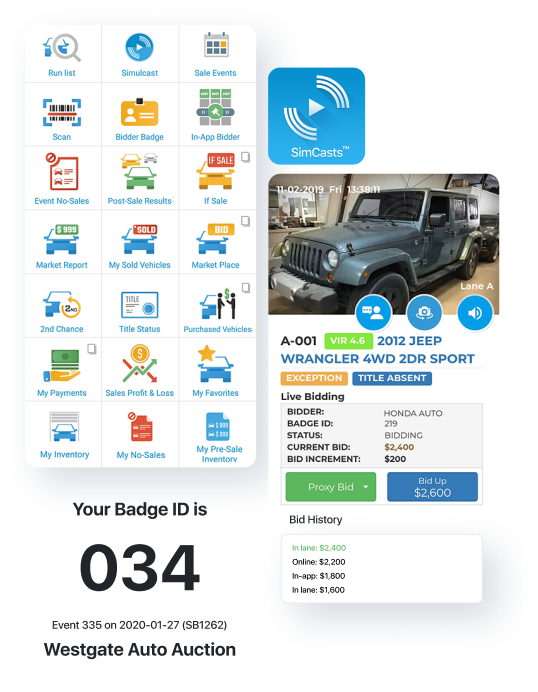
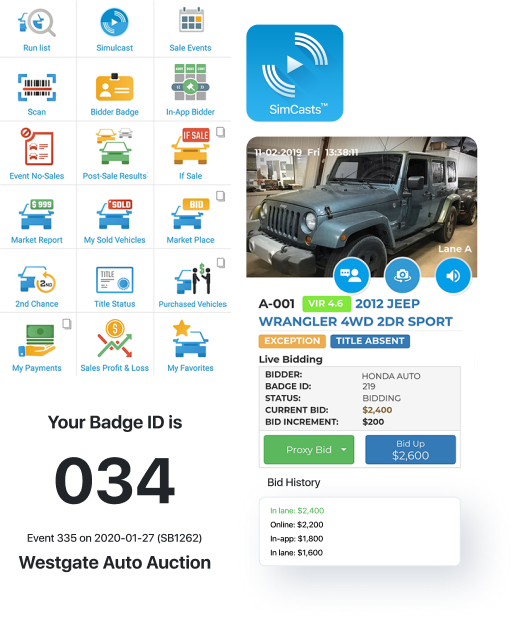
up

diff --git a/index.html b/index.html
@@ -48,12 +48,18 @@
         <div class="row">
           <div class="case-block">
             <div class="case-block-img">
-              <img class="img-case img-wxchat" src="images/chat_case.png" alt="">
+              <img class="img-case img-wxchat img-case-xl" src="images/chat_case.png" alt="">
+              <img class="img-case img-wxchat img-case-lg" src="images/chat_case_1600.png" alt="">
             </div>
             <div class="case-block-text">
-              <h3 class="xloo-title-dark-text">Business Chat Platform <br>That Unites Teams</h3>
-              <p class="xloo-secondary-text-dark case-text">WEBXLOO offers a complete results-oriented web strategy, catering to every aspect of your online business. They deliver integrated solutions that help companies grow, manage change and improve profitability. Webxloo's services, teams, efforts, dedication and customer-oriented approach make them a favorite choice among the clients. They are dedicated 24/7, all year round, to provide the best service available.
-              </p>
+              <p class="case-name">WXChat</p>
+              <h3 class="xloo-title-dark-text mb-0">Chat Platform for Omnichannel <br>Teams Collaboration</h3>
+              <p class="xloo-secondary-text-dark case-text">The powerful communication platform with high-end features to improve the internal workflows of any business.</p>
+              <div class="container-case-platforms">
+                <p class="case-platform-item"><img src="images/apple.svg" alt=""> iOS</p>
+                <p class="case-platform-item"><img src="images/android.svg" alt=""> Android</p>
+                <p class="case-platform-item"><img src="images/windows.svg" alt=""> Windows</p>
+              </div>
               <a href="#" class="btn btn-xloo-block-chevron btn-xloo-block-dark-text">Read Case Study <img src="images/arrow.svg" class="btn-chevron" alt="read"></a>
             </div>
           </div>
@@ -62,22 +68,26 @@
     </div>
   </div>
 
-
   <!-- 2 block-->
   <div class="section">
     <div class="xloo-block-secondary case-container container-dark">
       <div class="container">
         <div class="row">
           <div class="case-block">
-
             <div class="case-block-text">
-              <h3 class="xloo-title-block-secondary">Online Bidding Platform <br>With Live Streaming</h3>
-              <p class="xloo-secondary-text xloo-secondary-text-light case-text">Auction Streaming is the First and Only AMS provider with a fully functional and independent online Cloud Auction Management System. Auction owners from all over the USA get profits with highly innovative auction management software like Simcasts™ and LVS™.
-              </p>
+              <p class="case-name xloo-text-primary">SimCasts</p>
+              <h3 class="xloo-title-dark-text xloo-secondary-text-light mb-0">Online Bidding Platform With Live Streaming</h3>
+              <p class="xloo-secondary-text-light xloo-secondary-text case-text">Video/audio broadcasting software for auto auctions with a wide range of possibilities for selling vehicles online.</p>
+              <div class="container-case-platforms">
+                <p class="case-platform-item"><img src="images/apple.svg" alt=""> iOS</p>
+                <p class="case-platform-item"><img src="images/android.svg" alt=""> Android</p>
+                <p class="case-platform-item"><img src="images/windows.svg" alt=""> Windows</p>
+              </div>
               <a href="#" class="btn btn-xloo-block-chevron">Read Case Study <img src="images/arrow.svg" class="btn-chevron" alt="read"></a>
             </div>
             <div class="case-block-img">
-              <img src="images/simcast_case.png" alt="">
+              <img class="img-case-xl" src="images/simcast_case.png" alt="">
+              <img class="img-case img-wxchat img-case-lg" src="images/simcast_case.png" alt="">
             </div>
           </div>
         </div>
@@ -92,12 +102,124 @@
         <div class="row">
           <div class="case-block">
             <div class="case-block-img">
-              <img src="images/vir_case.png" alt="">
+              <img class="img-case-xl" src="images/vir_case.png" alt="">
             </div>
             <div class="case-block-text">
-              <h3 class="xloo-title-dark-text">Vehicle Condition <br> Report App with Grading</h3>
-              <p class="xloo-secondary-text-dark case-text">Autoxloo is an industry-leading car dealer software and online dealer management solutions provider with a global presence and a strong set of tools that allow automotive professionals to sell more vehicles and reach beyond the gates of their local markets.
-              </p>
+              <p class="case-name">VIR</p>
+              <h3 class="xloo-title-dark-text mb-0">Vehicle Condition Report App <br>with Grading</h3>
+              <p class="xloo-secondary-text-dark case-text">A complete solution for online vehicle inspections with the automatic grading of each vehicle area’s condition, each part, as well as the overall grading.</p>
+              <div class="container-case-platforms">
+                <p class="case-platform-item"><img src="images/apple.svg" alt=""> iOS</p>
+                <p class="case-platform-item"><img src="images/android.svg" alt=""> Android</p>
+                <p class="case-platform-item"><img src="images/windows.svg" alt=""> Windows</p>
+              </div>
+              <a href="#" class="btn btn-xloo-block-chevron btn-xloo-block-dark-text">Read Case Study <img src="images/arrow.svg" class="btn-chevron" alt="read"></a>
+            </div>
+          </div>
+        </div>
+      </div>
+    </div>
+  </div>
+
+  <!-- 4 block-->
+  <div class="section">
+    <div class="xloo-block-secondary case-container cta-block">
+      <div class="container">
+        <div class="row">
+          <div class="case-block">
+            <div class="case-block-text">
+              <p class="case-name">LVS</p>
+              <h3 class="xloo-title-dark-text mb-0">Live Video Streaming App for The Automotive Sector</h3>
+              <p class="xloo-secondary-text-dark case-text">The impressive video/audio streaming app for showcasing the vehicles and performing test drives online.</p>
+              <div class="container-case-platforms">
+                <p class="case-platform-item"><img src="images/apple.svg" alt=""> iOS</p>
+                <p class="case-platform-item"><img src="images/android.svg" alt=""> Android</p>
+                <p class="case-platform-item"><img src="images/windows.svg" alt=""> Windows</p>
+              </div>
+              <a href="#" class="btn btn-xloo-block-chevron btn-xloo-block-dark-text">Read Case Study <img src="images/arrow.svg" class="btn-chevron" alt="read"></a>
+            </div>
+            <div class="case-block-img">
+              <img class="img-case-xl" src="images/lvs_case.png" alt="">
+              <img class="img-case img-wxchat img-case-lg" src="images/lvs_case.png" alt="">
+            </div>
+          </div>
+        </div>
+      </div>
+    </div>
+  </div>
+
+  <!-- 5 block-->
+  <div class="section">
+    <div class="xloo-block-secondary case-container">
+      <div class="container">
+        <div class="row">
+          <div class="case-block">
+            <div class="case-block-img">
+              <img class="img-case-xl" src="images/crm_case.png" alt="">
+            </div>
+            <div class="case-block-text">
+              <p class="case-name">WXCRM</p>
+              <h3 class="xloo-title-dark-text mb-0">Scalable Customer Relationship Management System</h3>
+              <p class="xloo-secondary-text-dark case-text">The all-inclusive CRM system with mission-critical integrations and a solid package of features for leads and sales management.</p>
+              <div class="container-case-platforms">
+                <p class="case-platform-item"><img src="images/apple.svg" alt=""> iOS</p>
+                <p class="case-platform-item"><img src="images/android.svg" alt=""> Android</p>
+                <p class="case-platform-item"><img src="images/windows.svg" alt=""> Windows</p>
+              </div>
+              <a href="#" class="btn btn-xloo-block-chevron btn-xloo-block-dark-text">Read Case Study <img src="images/arrow.svg" class="btn-chevron" alt="read"></a>
+            </div>
+          </div>
+        </div>
+      </div>
+    </div>
+  </div>
+
+  <!-- 6 block-->
+  <div class="section">
+    <div class="xloo-block-secondary case-container container-dark">
+      <div class="container">
+        <div class="row">
+          <div class="case-block">
+            <div class="case-block-text">
+              <p class="case-name xloo-text-primary">WXVoice</p>
+              <h3 class="xloo-title-dark-text xloo-secondary-text-light mb-0">The Voice Messenger App for In-company Collaboration</h3>
+              <p class="xloo-secondary-text-light xloo-secondary-text case-text">The Telecommunication App for In-company Collaboration
+                Secure calls, voicemail, and messaging with file sharing for productive remote communication between employees.</p>
+              <div class="container-case-platforms">
+                <p class="case-platform-item"><img src="images/apple.svg" alt=""> iOS</p>
+                <p class="case-platform-item"><img src="images/android.svg" alt=""> Android</p>
+                <p class="case-platform-item"><img src="images/windows.svg" alt=""> Windows</p>
+              </div>
+              <a href="#" class="btn btn-xloo-block-chevron">Read Case Study <img src="images/arrow.svg" class="btn-chevron" alt="read"></a>
+            </div>
+            <div class="case-block-img">
+              <img class="img-case-xl" src="images/voice_case.png" alt="">
+              <img class="img-case img-wxchat img-case-lg" src="images/voice_case.png" alt="">
+            </div>
+          </div>
+        </div>
+      </div>
+    </div>
+  </div>
+
+  <!-- 7 block-->
+  <div class="section">
+    <div class="xloo-block-secondary case-container">
+      <div class="container">
+        <div class="row">
+          <div class="case-block">
+            <div class="case-block-img">
+              <img class="img-case-xl" src="images/slingshot_case.png" alt="">
+            </div>
+            <div class="case-block-text">
+              <p class="case-name">Slingshot Mobile</p>
+              <h3 class="xloo-title-dark-text mb-0">Inventory Management App for Auto Dealers</h3>
+              <p class="xloo-secondary-text-dark case-text">Reliable and intuitive software for listing and delisting vehicles, editing and clearing the inventory using mobile devices.</p>
+              <div class="container-case-platforms">
+                <p class="case-platform-item"><img src="images/apple.svg" alt=""> iOS</p>
+                <p class="case-platform-item"><img src="images/android.svg" alt=""> Android</p>
+                <p class="case-platform-item"><img src="images/windows.svg" alt=""> Windows</p>
+              </div>
               <a href="#" class="btn btn-xloo-block-chevron btn-xloo-block-dark-text">Read Case Study <img src="images/arrow.svg" class="btn-chevron" alt="read"></a>
             </div>
           </div>
@@ -107,7 +229,7 @@
   </div>
 
 
-  <!-- 7 block-->
+  <!-- 8 block-->
   <div class="section">
     <div class="xloo-block-secondary cta-block">
       <div class="container">

diff --git a/css/work_page.css b/css/work_page.css
@@ -15,27 +15,31 @@
   width: 7px;
 }
 
-
-
 .xloo-block-secondary-top {
   margin-top: 96px;
 }
 .case-block {
   display: flex;
   align-items: center;
+  height: 100%;
 }
 .case-container {
-  padding: 0;
+  padding: 60px 0;
 }
 .case-block-text .case-text {
-  margin: 25px 0 30px;
+  margin: 20px 0 22px;
 }
 .case-block-img {
   width: 50%;
+  display: flex;
+  align-items: center;
+  justify-content: center;
+  height: 100%;
 }
 .case-block-text {
   width: 50%;
   padding: 0 20px;
+  height: 100%;
 }
 .img-case {
   display: block;
@@ -43,4 +47,36 @@
 }
 .img-wxchat {
   margin-bottom: -42px;
+}
+.case-block-img img{
+  display: none;
+}
+.case-block-img .img-case-xl {
+  display: block;
+}
+.container-case-platforms {
+  display: flex;
+  margin-bottom: 35px;
+}
+.case-platform-item {
+  display: flex;
+  align-items: center;
+  justify-content: center;
+  background-color: #93CB40;
+  height: 48px;
+  border-radius: 100px;
+  padding: 0 25px;
+  color: #ffffff;
+}
+.container-case-platforms p:not(:last-child) {
+  margin-right: 15px;
+}
+.case-platform-item img {
+  margin-right: 8px;
+}
+.case-name {
+  color: #93CB40;
+  font-size: 28px;
+  font-weight: 600;
+  margin-bottom: 10px;
 }

diff --git a/css/media.css b/css/media.css
@@ -151,6 +151,15 @@ margin-bottom: 30px;
   margin-bottom: 11px;
   min-height: 64px;
 }
+
+/* work block*/
+.case-block-img .img-case-xl {
+  display: none;
+}
+.case-block-img .img-case-lg {
+  display: block;
+}
+/* work block end */
 }
 @media(max-width: 1440px) {
   .xloo-features-content-title,
